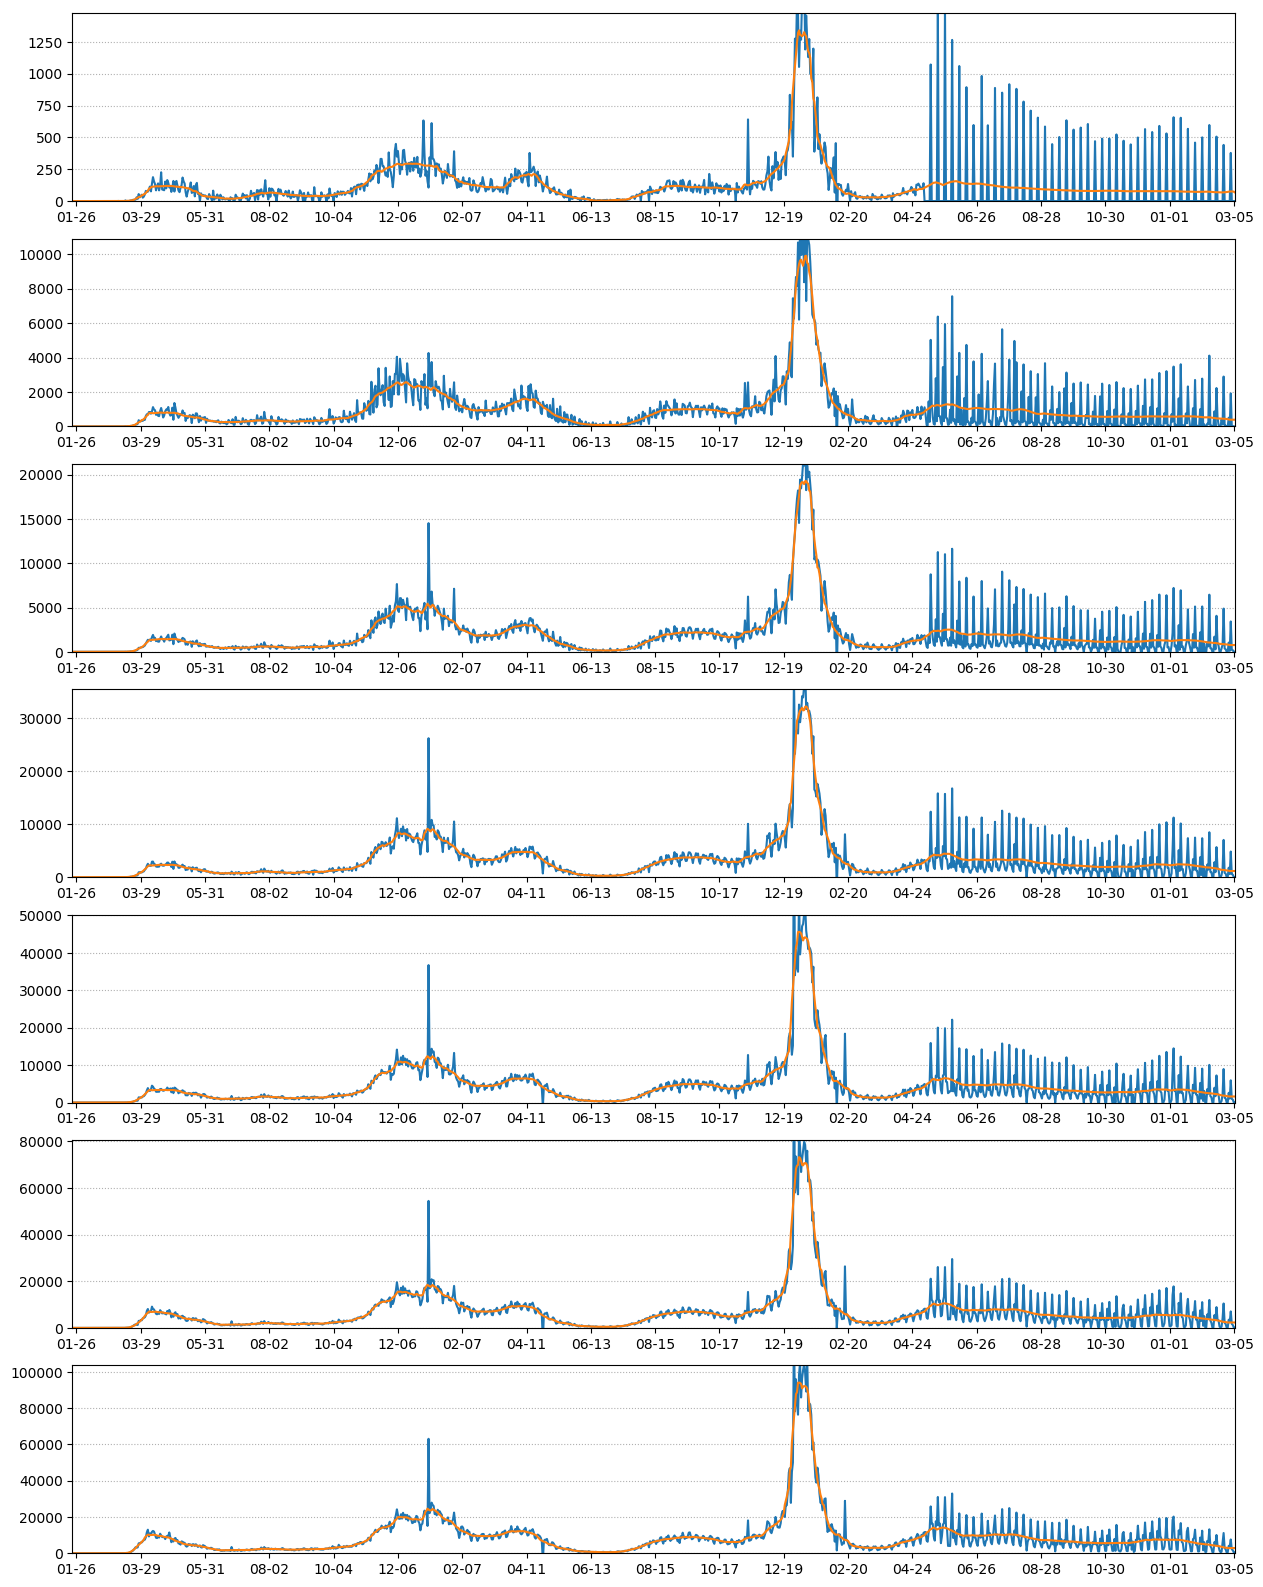
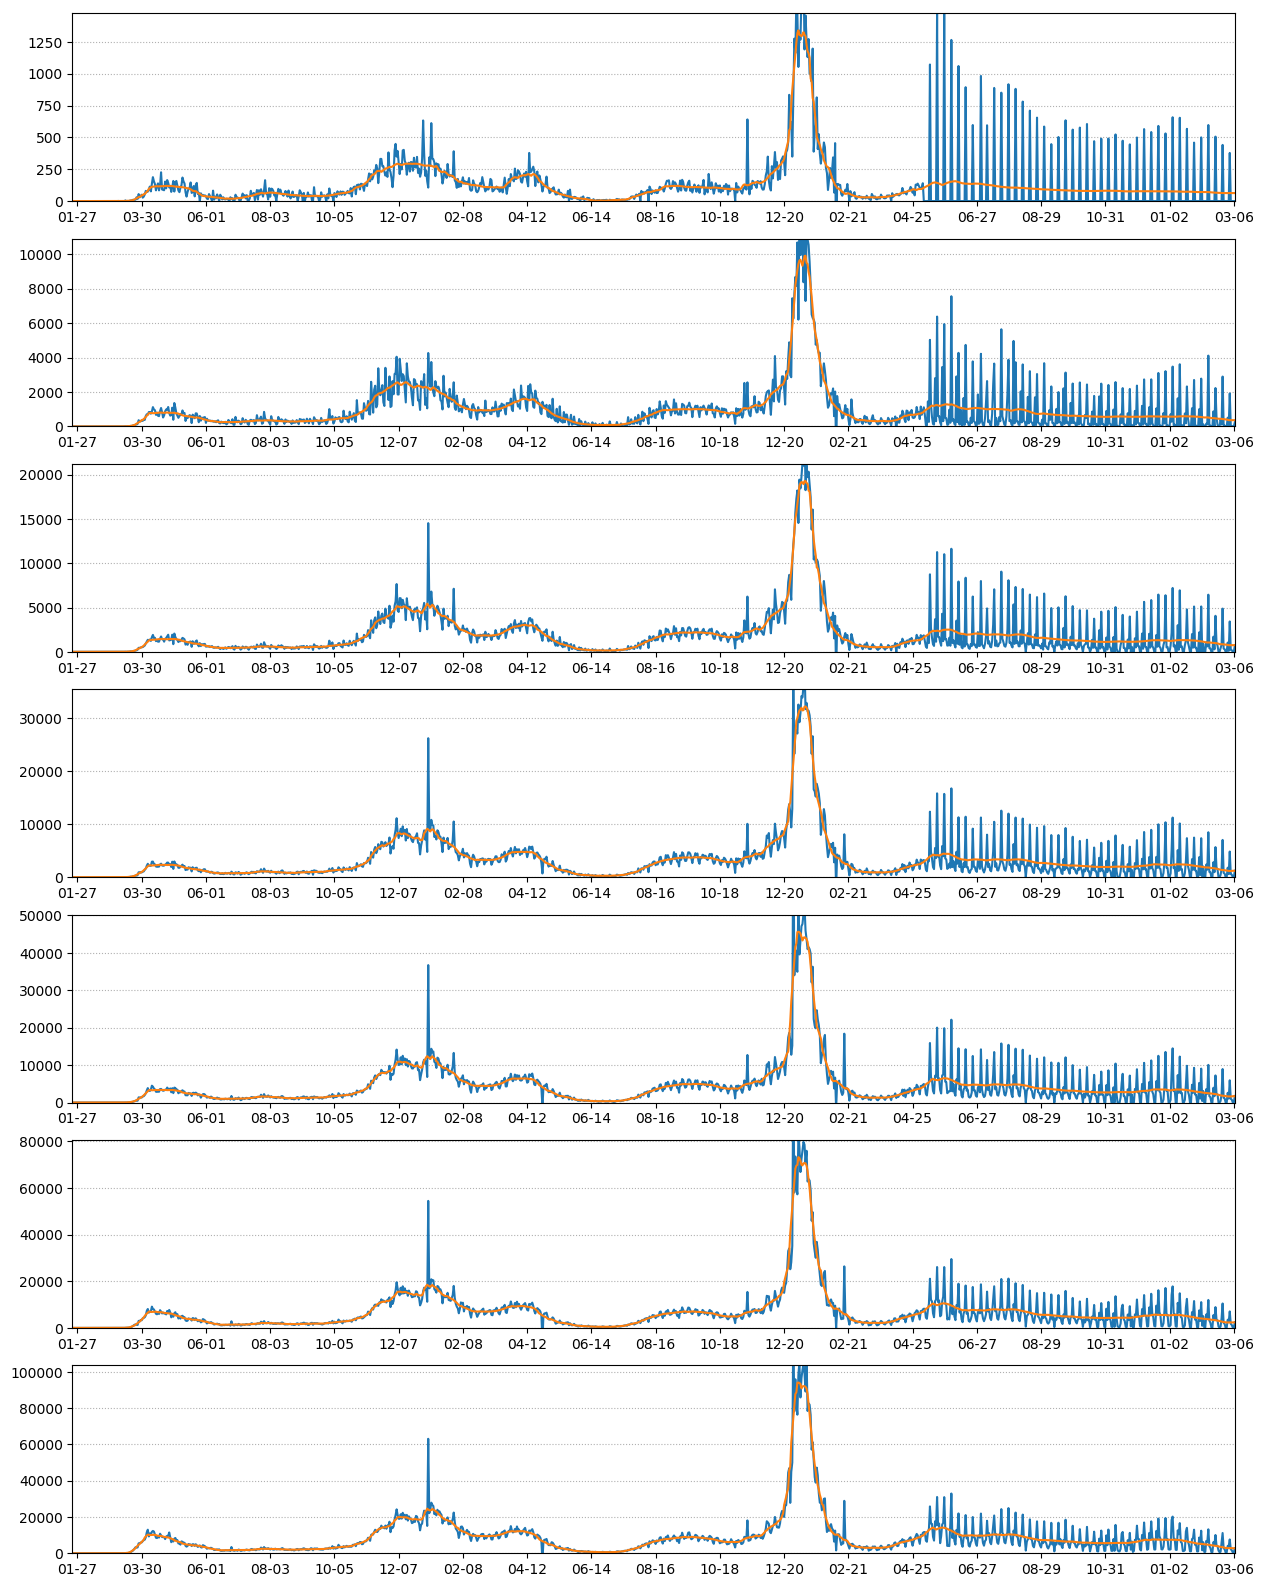
daily forecast

diff --git a/dailymessage.html b/dailymessage.html
@@ -1,46 +1,46 @@
 Delaware County COVID-19 Monitor<br>
-as of 2023-03-05<br>
+as of 2023-03-06<br>
 <table border="1" cellspacing="5" cellpadding="3">
 <tr>
 <td>0</td>
-<td>68</td>
+<td>63</td>
 <td>566747</td>
-<td>11.9</td>
+<td>11.1</td>
 </tr>
 <tr>
 <td>1</td>
-<td>392</td>
+<td>366</td>
 <td>4357104</td>
-<td>8.9</td>
+<td>8.4</td>
 </tr>
 <tr>
 <td>2</td>
-<td>763</td>
+<td>751</td>
 <td>8052045</td>
-<td>9.4</td>
+<td>9.3</td>
 </tr>
 <tr>
 <td>3</td>
-<td>1163</td>
+<td>1169</td>
 <td>13327166</td>
 <td>8.7</td>
 </tr>
 <tr>
 <td>4</td>
-<td>1617</td>
+<td>1633</td>
 <td>18498878</td>
-<td>8.7</td>
+<td>8.8</td>
 </tr>
 <tr>
 <td>5</td>
-<td>2332</td>
+<td>2339</td>
 <td>27240755</td>
 <td>8.5</td>
 </tr>
 <tr>
 <td>6</td>
-<td>2894</td>
+<td>2750</td>
 <td>34871340</td>
-<td>8.2</td>
+<td>7.8</td>
 </tr>
 </table>
